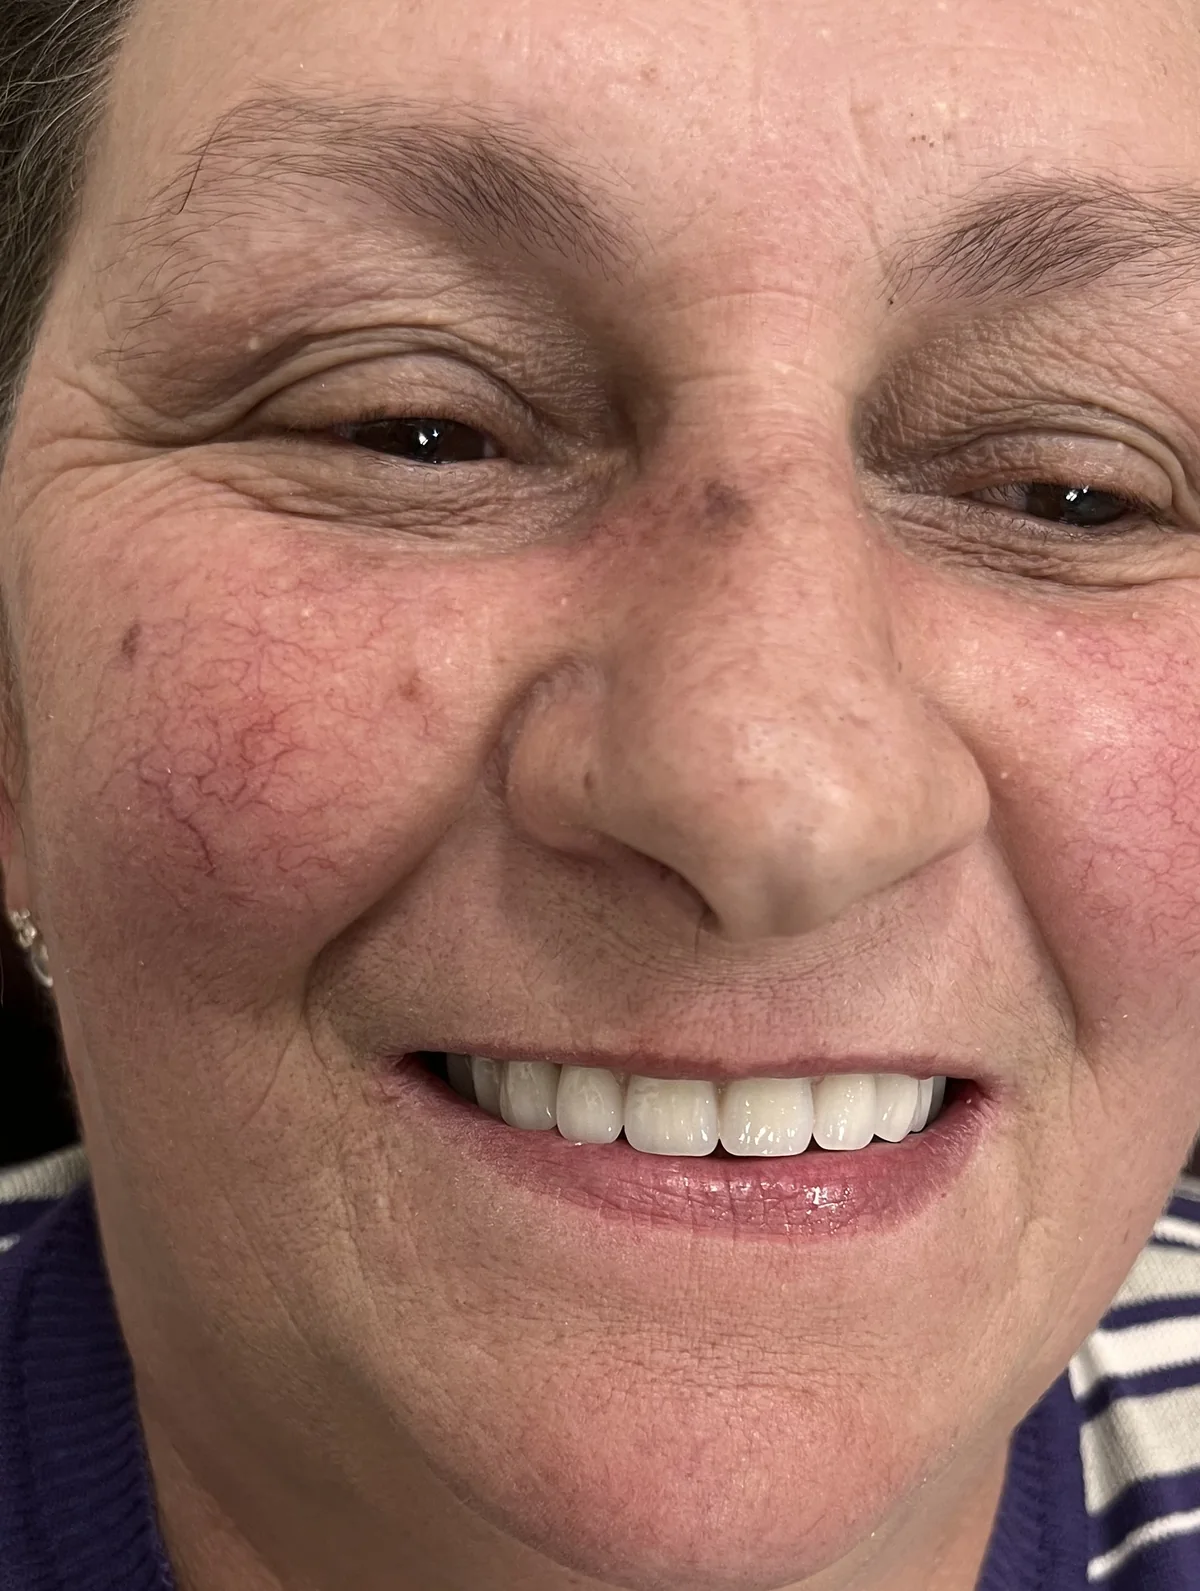
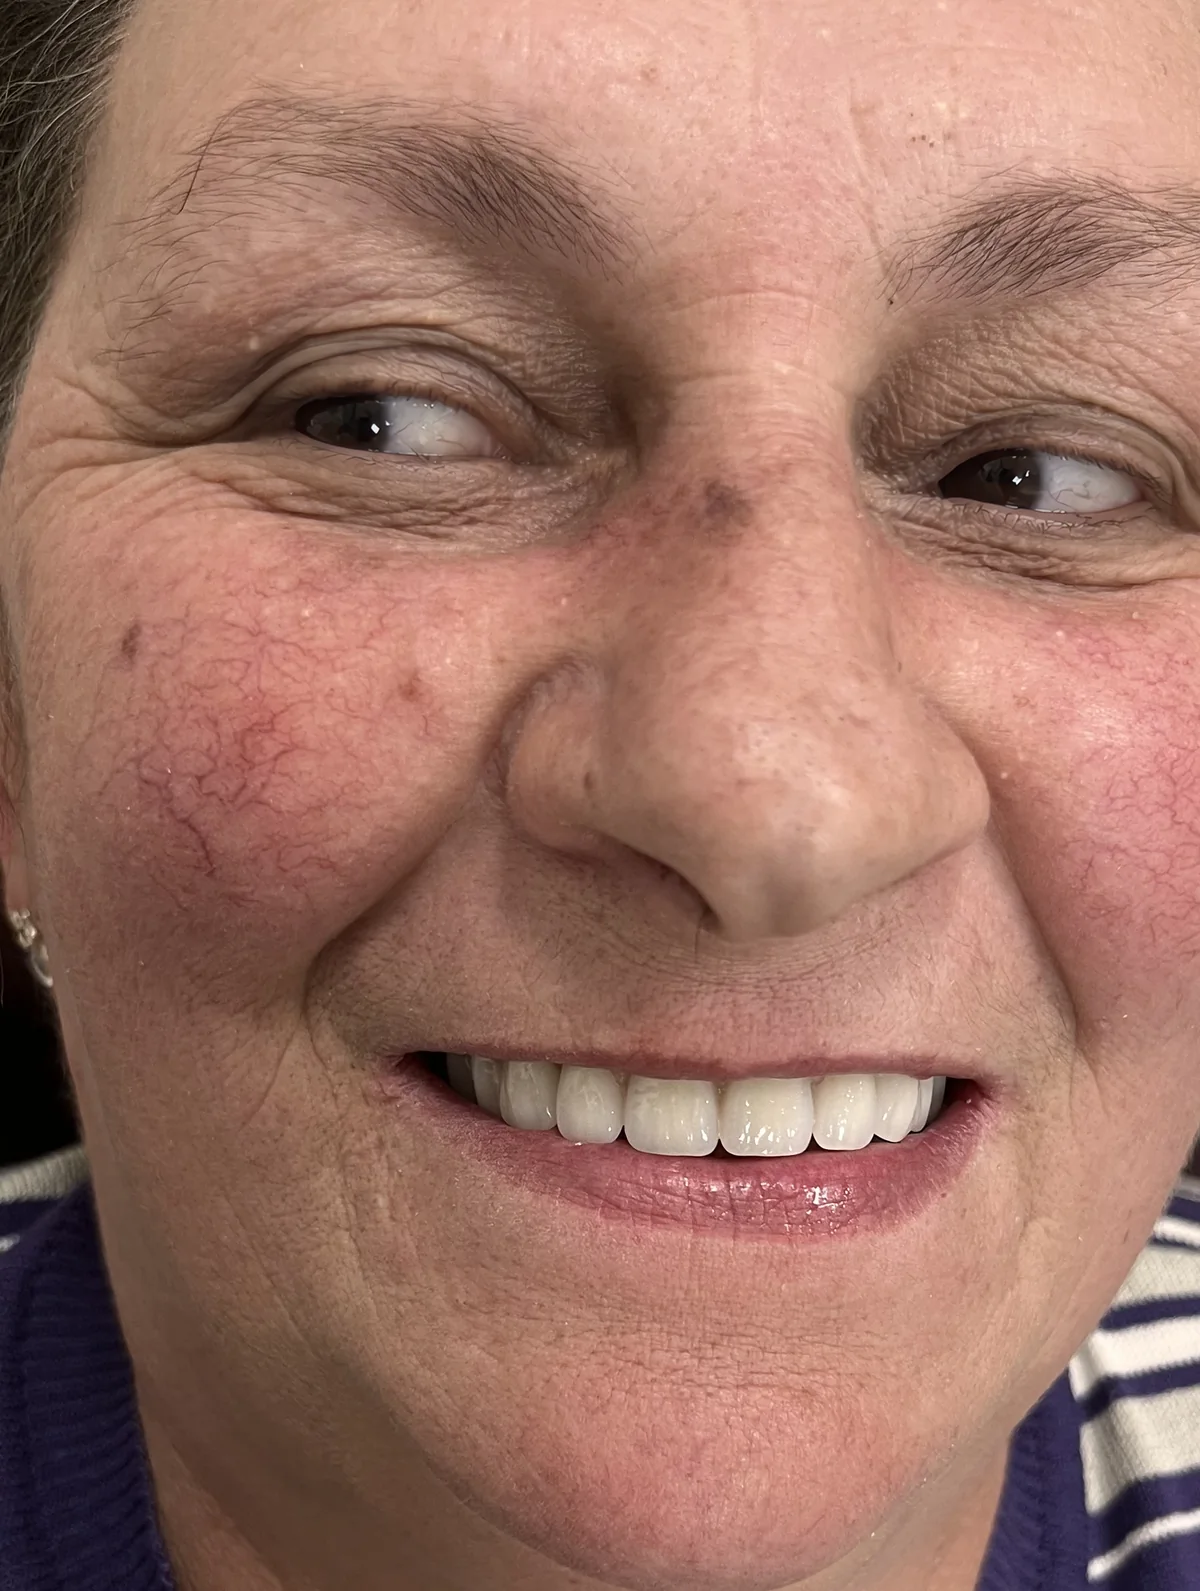
Caso 10 (foto 1): olhar do depois na mesma direção do antes
Os olhos da foto do depois foram ajustados no Kairogen (GPT Image 2)
para olhar para o mesmo lado do antes. Só a região dos olhos veio da
edição; boca, dentes e pele continuam sendo da foto original.
Imagens e cache offline vão para a v5.

Changed region(s): [[0.7708, 0.2464, 0.9867, 0.3388], [0.2158, 0.2156, 0.4317, 0.308]]

diff --git a/sw.js b/sw.js
@@ -2,51 +2,51 @@
    Guarda a página e as fotos no aparelho para abrir mesmo sem internet.
    Ao trocar ou incluir fotos, aumente o número da versão abaixo,
    o ?v= das fotos em assets/js/app.js e acrescente os arquivos novos na lista. */
-const VERSION = 'resultados-v4';
+const VERSION = 'resultados-v5';
 const FILES = [
   './',
   'index.html',
   'manifest.webmanifest',
   'assets/css/style.css?v=2',
-  'assets/js/app.js?v=4',
+  'assets/js/app.js?v=5',
   'assets/brand/vetor-lockup-horizontal-branco.svg',
   'assets/brand/vetor-simbolo-rosa.svg',
   'icons/apple-touch-icon.png',
   'icons/icon-192.png',
-  'assets/img/caso-01-2-antes.webp?v=4',
-  'assets/img/caso-01-2-depois.webp?v=4',
-  'assets/img/caso-01-antes.webp?v=4',
-  'assets/img/caso-01-depois.webp?v=4',
-  'assets/img/caso-02-2-antes.webp?v=4',
-  'assets/img/caso-02-2-depois.webp?v=4',
-  'assets/img/caso-02-antes.webp?v=4',
-  'assets/img/caso-02-depois.webp?v=4',
-  'assets/img/caso-03-2-antes.webp?v=4',
-  'assets/img/caso-03-2-depois.webp?v=4',
-  'assets/img/caso-03-antes.webp?v=4',
-  'assets/img/caso-03-depois.webp?v=4',
-  'assets/img/caso-04-antes.webp?v=4',
-  'assets/img/caso-04-depois.webp?v=4',
-  'assets/img/caso-06-antes.webp?v=4',
-  'assets/img/caso-06-depois.webp?v=4',
-  'assets/img/caso-07-antes.webp?v=4',
-  'assets/img/caso-07-depois.webp?v=4',
-  'assets/img/caso-08-2-antes.webp?v=4',
-  'assets/img/caso-08-2-depois.webp?v=4',
-  'assets/img/caso-08-antes.webp?v=4',
-  'assets/img/caso-08-depois.webp?v=4',
-  'assets/img/caso-09-antes.webp?v=4',
-  'assets/img/caso-09-depois.webp?v=4',
-  'assets/img/caso-10-2-antes.webp?v=4',
-  'assets/img/caso-10-2-depois.webp?v=4',
-  'assets/img/caso-10-antes.webp?v=4',
-  'assets/img/caso-10-depois.webp?v=4',
-  'assets/img/caso-11-2-antes.webp?v=4',
-  'assets/img/caso-11-2-depois.webp?v=4',
-  'assets/img/caso-11-antes.webp?v=4',
-  'assets/img/caso-11-depois.webp?v=4',
-  'assets/img/caso-12-antes.webp?v=4',
-  'assets/img/caso-12-depois.webp?v=4'
+  'assets/img/caso-01-2-antes.webp?v=5',
+  'assets/img/caso-01-2-depois.webp?v=5',
+  'assets/img/caso-01-antes.webp?v=5',
+  'assets/img/caso-01-depois.webp?v=5',
+  'assets/img/caso-02-2-antes.webp?v=5',
+  'assets/img/caso-02-2-depois.webp?v=5',
+  'assets/img/caso-02-antes.webp?v=5',
+  'assets/img/caso-02-depois.webp?v=5',
+  'assets/img/caso-03-2-antes.webp?v=5',
+  'assets/img/caso-03-2-depois.webp?v=5',
+  'assets/img/caso-03-antes.webp?v=5',
+  'assets/img/caso-03-depois.webp?v=5',
+  'assets/img/caso-04-antes.webp?v=5',
+  'assets/img/caso-04-depois.webp?v=5',
+  'assets/img/caso-06-antes.webp?v=5',
+  'assets/img/caso-06-depois.webp?v=5',
+  'assets/img/caso-07-antes.webp?v=5',
+  'assets/img/caso-07-depois.webp?v=5',
+  'assets/img/caso-08-2-antes.webp?v=5',
+  'assets/img/caso-08-2-depois.webp?v=5',
+  'assets/img/caso-08-antes.webp?v=5',
+  'assets/img/caso-08-depois.webp?v=5',
+  'assets/img/caso-09-antes.webp?v=5',
+  'assets/img/caso-09-depois.webp?v=5',
+  'assets/img/caso-10-2-antes.webp?v=5',
+  'assets/img/caso-10-2-depois.webp?v=5',
+  'assets/img/caso-10-antes.webp?v=5',
+  'assets/img/caso-10-depois.webp?v=5',
+  'assets/img/caso-11-2-antes.webp?v=5',
+  'assets/img/caso-11-2-depois.webp?v=5',
+  'assets/img/caso-11-antes.webp?v=5',
+  'assets/img/caso-11-depois.webp?v=5',
+  'assets/img/caso-12-antes.webp?v=5',
+  'assets/img/caso-12-depois.webp?v=5'
 ];
 
 self.addEventListener('install', e => {

diff --git a/assets/js/app.js b/assets/js/app.js
@@ -51,7 +51,7 @@
       text: 'Os dentes da frente ganharam facetas com forma e tamanho redesenhados, deixando o sorriso mais uniforme e equilibrado.',
       views: [{ src: 'caso-09', w: 1200, h: 660 }] }
   ];
-  const img = (v, lado) => `assets/img/${v.src}-${lado}.webp?v=4`;
+  const img = (v, lado) => `assets/img/${v.src}-${lado}.webp?v=5`;
 
   const ba = $('#ba');
   const stage = $('#stage');

diff --git a/index.html b/index.html
@@ -81,6 +81,6 @@
   </div>
 </main>
 
-<script src="assets/js/app.js?v=4"></script>
+<script src="assets/js/app.js?v=5"></script>
 </body>
 </html>
